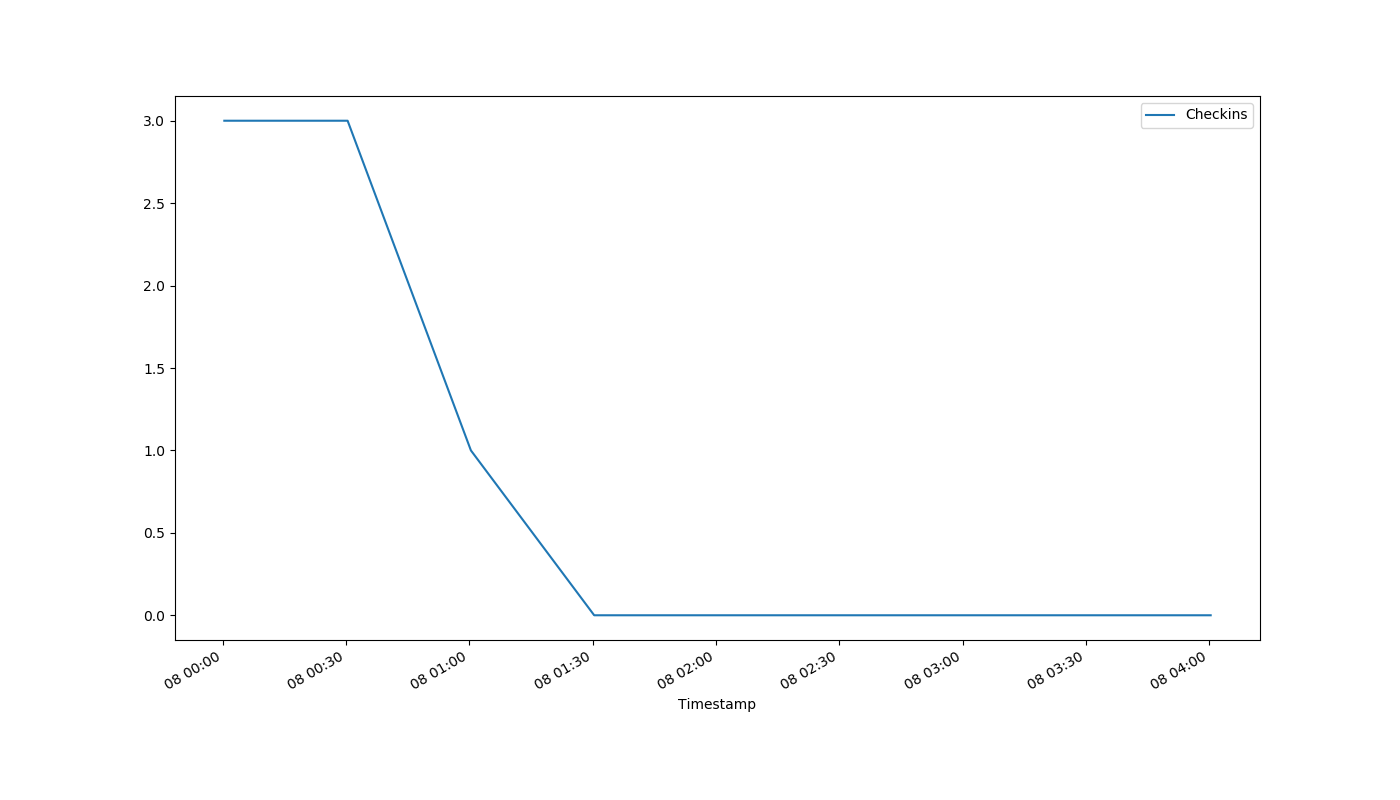
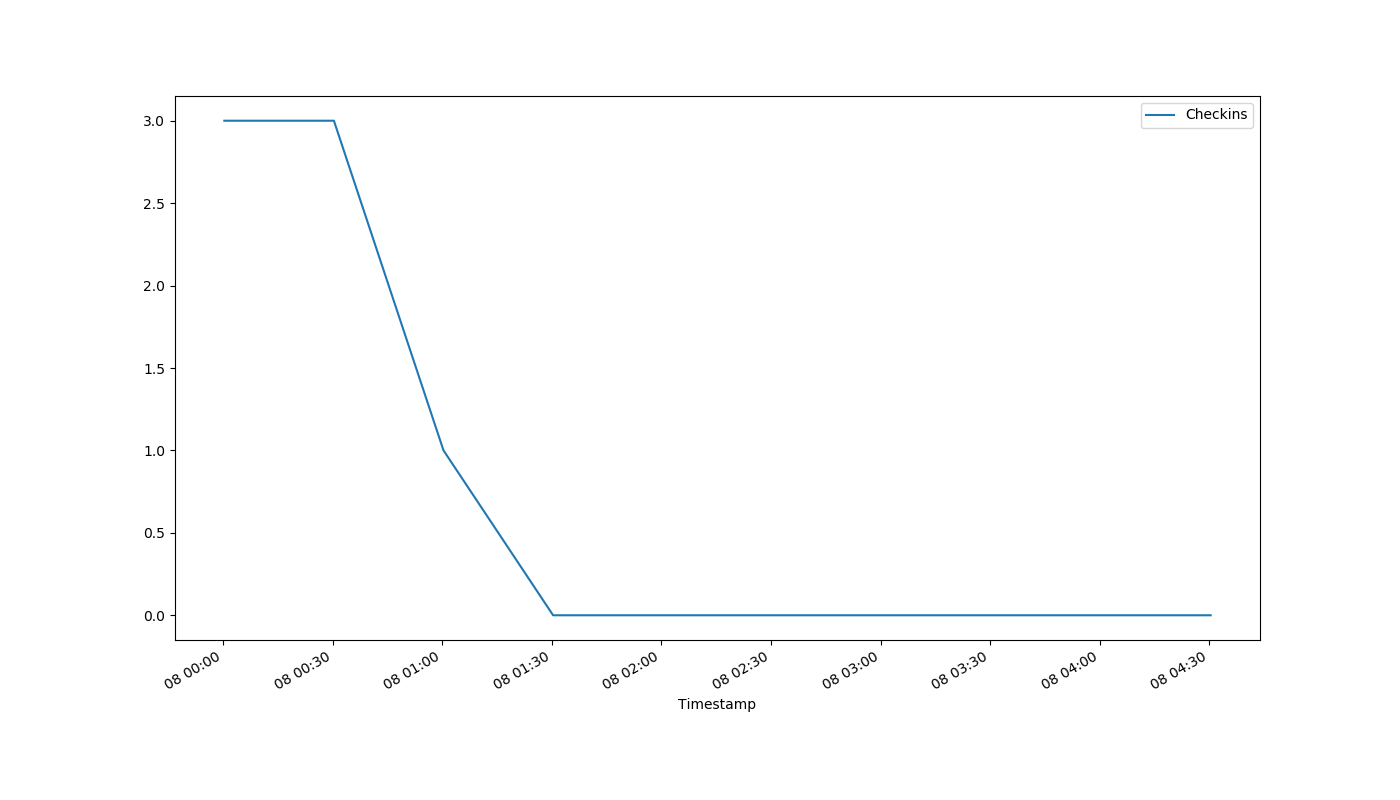
auto-Aug-08-04:32:18

diff --git a/index.html b/index.html
@@ -1,1 +1,1 @@
-<!DOCTYPE html><html><head><meta http-equiv="refresh" content="30"><link rel='stylesheet' href='holmcurrent.css'></head><body><p id='count'>0</p><div id='graph-wrap'><img id='graph' src='holmgraph-Aug-08.png'></div><p id='updated'>Last updated 04:01:16 / 04:00:23</p></body></html>
+<!DOCTYPE html><html><head><meta http-equiv="refresh" content="30"><link rel='stylesheet' href='holmcurrent.css'></head><body><p id='count'>0</p><div id='graph-wrap'><img id='graph' src='holmgraph-Aug-08.png'></div><p id='updated'>Last updated 04:31:16 / 04:30:23</p></body></html>
